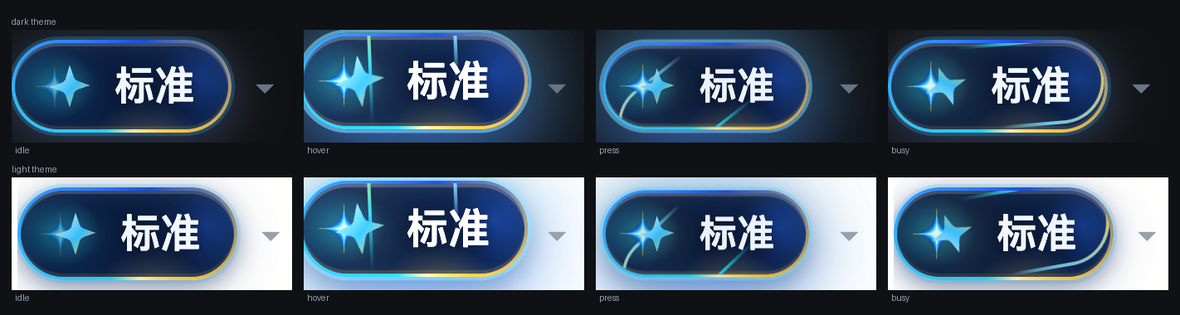
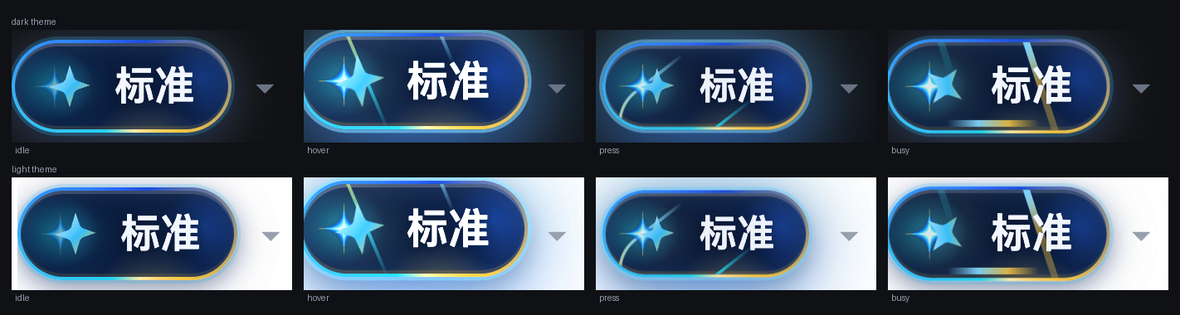
feat(ui): 执行中动效与悬停明显区分（0.5.0）
用户反馈：强化执行中的动效与鼠标悬停看不出大区别。此前 busy 相对 hover 只有描边

diff --git a/lib/client.js b/lib/client.js
@@ -326,6 +326,9 @@ window.__ModuleLoader__.load({
 				className: "dip-ring",
 				"aria-hidden": "true"
 			}), react.default.createElement("span", {
+				className: "dip-arc",
+				"aria-hidden": "true"
+			}), react.default.createElement("span", {
 				className: "dip-spark",
 				"aria-hidden": "true"
 			}), Sparkle(), react.default.createElement("span", { className: "dip-label" }, modeLabel))), react.default.createElement("button", {
@@ -523,6 +526,11 @@ window.__ModuleLoader__.load({
 				"radial-gradient(34% 70% at 62% 116%,rgba(245,197,66,.26),transparent 74%)",
 				"radial-gradient(130% 160% at 50% 50%,rgba(6,20,48,.66),transparent 80%)"
 			].join(",") + "}",
+			".dip-arc{position:absolute;left:0;right:0;bottom:1px;height:2px;border-radius:2px;opacity:0;",
+			"pointer-events:none;z-index:1;background-repeat:no-repeat;background-size:42% 100%;background-position:-60% 0;",
+			"background-image:linear-gradient(90deg,transparent,rgba(125,211,252,.95),rgba(245,197,66,.9),transparent);",
+			"transition:opacity .25s ease}",
+			".dip-btn[data-busy=\"true\"] .dip-arc{opacity:1;animation:dip-sweep 1.5s cubic-bezier(.55,.05,.35,.95) infinite}",
 			".dip-ring{position:absolute;inset:0;border-radius:999px;padding:1px;opacity:0;pointer-events:none;z-index:1;",
 			"background:conic-gradient(from 0deg,transparent 0 38%,rgba(34,211,238,.95) 56%,rgba(245,197,66,1) 72%,rgba(125,211,252,.95) 86%,transparent 100%);",
 			"-webkit-mask:linear-gradient(#000 0 0) content-box,linear-gradient(#000 0 0);",
@@ -534,17 +542,20 @@ window.__ModuleLoader__.load({
 			"box-shadow:0 0 0 1px rgba(125,211,252,.55),0 6px 26px rgba(43,108,255,.6),0 0 24px rgba(56,189,248,.45),",
 			"0 0 28px rgba(245,197,66,.26),inset 0 1px 0 rgba(255,255,255,.34),inset 0 2px 6px rgba(226,244,255,.14),",
 			"inset 0 -1px 0 rgba(245,197,66,.26),inset 0 0 18px rgba(43,108,255,.4),0 3px 8px rgba(0,0,0,.38)}",
-			".dip-btn:hover:not(:disabled) .dip-ring{opacity:1;animation:dip-rim 2.6s linear infinite}",
+			".dip-btn:hover:not(:disabled) .dip-ring{opacity:.85;animation:dip-rim 3.4s linear infinite}",
 			".dip-seat:hover .dip-aurora{opacity:1}",
 			".dip-seat:hover .dip-spark{opacity:.9;transform:translateY(-50%) scale(1.12) rotate(90deg)}",
 			".dip-seat:hover .dip-icon{transform:scale(1.18) rotate(-6deg)}",
 			".dip-btn:active:not(:disabled){transform:translateY(0) scale(.94);transition-duration:.06s;filter:brightness(.98)}",
 			".dip-seat:active .dip-icon{transform:scale(.9)}",
 			".dip-btn:active:not(:disabled) .dip-ring{opacity:1;animation-duration:1.1s}",
-			".dip-btn[data-busy=\"true\"] .dip-ring{opacity:1;animation:dip-rim 1.2s linear infinite}",
-			".dip-btn[data-busy=\"true\"] .dip-icon{animation:dip-icon-spin 1.1s linear infinite}",
-			".dip-seat[data-busy=\"true\"] .dip-aurora{opacity:1;animation:dip-aurora 2s ease-in-out infinite}",
-			".dip-seat[data-busy=\"true\"] .dip-spark{opacity:.95;animation:dip-spark-pulse 1.6s ease-in-out infinite}",
+			".dip-btn[data-busy=\"true\"]{animation:dip-charge 2.1s ease-in-out infinite}",
+			".dip-btn[data-busy=\"true\"] .dip-ring{opacity:1;padding:2px;animation:dip-rim 1s linear infinite;",
+			"background:conic-gradient(from 0deg,transparent 0 8%,rgba(34,211,238,.45) 22%,rgba(125,211,252,1) 40%,",
+			"rgba(245,197,66,1) 54%,transparent 70%)}",
+			".dip-btn[data-busy=\"true\"] .dip-icon{animation:dip-icon-spin .8s linear infinite}",
+			".dip-seat[data-busy=\"true\"] .dip-aurora{opacity:1;animation:dip-aurora 1.1s ease-in-out infinite}",
+			".dip-seat[data-busy=\"true\"] .dip-spark{opacity:1;animation:dip-spark-pulse 1.1s ease-in-out infinite}",
 			".dip-btn:focus-visible{outline:2px solid rgba(125,211,252,.85);outline-offset:2px}",
 			".dip-btn:disabled{cursor:default;color:rgba(243,247,255,.62);filter:saturate(.35) brightness(.85)}",
 			".dip-btn:disabled .dip-ring{opacity:0}",
@@ -576,6 +587,8 @@ window.__ModuleLoader__.load({
 			".dip-undo:hover{background:var(--dsw-alias-interactive-bg-hover);color:var(--dsw-alias-label-primary)}",
 			".dip-undo:active{transform:scale(.95)}",
 			"@keyframes dip-rim{to{transform:rotate(360deg)}}",
+			"@keyframes dip-sweep{from{background-position:-60% 0}to{background-position:160% 0}}",
+			"@keyframes dip-charge{0%,100%{transform:scale(1)}50%{transform:scale(1.028)}}",
 			"@keyframes dip-icon-spin{to{transform:rotate(360deg)}}",
 			"@keyframes dip-aurora{0%,100%{opacity:.7}50%{opacity:1}}",
 			"@keyframes dip-spark-pulse{0%,100%{opacity:.5;transform:translateY(-50%) scale(.95)}50%{opacity:1;transform:translateY(-50%) scale(1.15)}}",
@@ -583,6 +596,7 @@ window.__ModuleLoader__.load({
 			".dip-btn,.dip-ring,.dip-aurora,.dip-spark,.dip-icon,.dip-chevron,.dip-undo{animation:none!important;",
 			"transition-duration:.01ms!important}",
 			".dip-btn:hover:not(:disabled) .dip-ring,.dip-btn[data-busy=\"true\"] .dip-ring{opacity:1}",
+			".dip-btn[data-busy=\"true\"] .dip-arc{opacity:1;background-size:100% 100%;background-position:0 0}",
 			".dip-seat[data-busy=\"true\"] .dip-aurora{opacity:1}",
 			"}"
 		].join("\n");

diff --git a/src/client/styles.ts b/src/client/styles.ts
@@ -80,6 +80,15 @@ export const css = [
   '.dip-aurora{position:absolute;inset:0;border-radius:999px;pointer-events:none;z-index:0;',
   'opacity:.85;transition:opacity .3s;background:' + AURORA + '}',
 
+  /* indeterminate progress: an energy bar sweeping the bottom inner edge, busy only.
+     It occupies y25..27 of a 28px pill while the label box is y8..20, so it can never
+     pass under a glyph — a geometric guarantee the harness asserts. */
+  '.dip-arc{position:absolute;left:0;right:0;bottom:1px;height:2px;border-radius:2px;opacity:0;',
+  'pointer-events:none;z-index:1;background-repeat:no-repeat;background-size:42% 100%;background-position:-60% 0;',
+  'background-image:linear-gradient(90deg,transparent,rgba(125,211,252,.95),rgba(245,197,66,.9),transparent);',
+  'transition:opacity .25s ease}',
+  '.dip-btn[data-busy="true"] .dip-arc{opacity:1;animation:dip-sweep 1.5s cubic-bezier(.55,.05,.35,.95) infinite}',
+
   /* travelling rim light, masked to the 1px band */
   '.dip-ring{position:absolute;inset:0;border-radius:999px;padding:1px;opacity:0;pointer-events:none;z-index:1;',
   'background:conic-gradient(from 0deg,transparent 0 38%,rgba(34,211,238,.95) 56%,rgba(245,197,66,1) 72%,rgba(125,211,252,.95) 86%,transparent 100%);',
@@ -97,7 +106,7 @@ export const css = [
   'box-shadow:0 0 0 1px rgba(125,211,252,.55),0 6px 26px rgba(43,108,255,.6),0 0 24px rgba(56,189,248,.45),',
   '0 0 28px rgba(245,197,66,.26),inset 0 1px 0 rgba(255,255,255,.34),inset 0 2px 6px rgba(226,244,255,.14),',
   'inset 0 -1px 0 rgba(245,197,66,.26),inset 0 0 18px rgba(43,108,255,.4),0 3px 8px rgba(0,0,0,.38)}',
-  '.dip-btn:hover:not(:disabled) .dip-ring{opacity:1;animation:dip-rim 2.6s linear infinite}',
+  '.dip-btn:hover:not(:disabled) .dip-ring{opacity:.85;animation:dip-rim 3.4s linear infinite}',
   '.dip-seat:hover .dip-aurora{opacity:1}',
   '.dip-seat:hover .dip-spark{opacity:.9;transform:translateY(-50%) scale(1.12) rotate(90deg)}',
   '.dip-seat:hover .dip-icon{transform:scale(1.18) rotate(-6deg)}',
@@ -108,10 +117,16 @@ export const css = [
   '.dip-btn:active:not(:disabled) .dip-ring{opacity:1;animation-duration:1.1s}',
 
   /* ---------- busy: the rim runs continuously ---------- */
-  '.dip-btn[data-busy="true"] .dip-ring{opacity:1;animation:dip-rim 1.2s linear infinite}',
-  '.dip-btn[data-busy="true"] .dip-icon{animation:dip-icon-spin 1.1s linear infinite}',
-  '.dip-seat[data-busy="true"] .dip-aurora{opacity:1;animation:dip-aurora 2s ease-in-out infinite}',
-  '.dip-seat[data-busy="true"] .dip-spark{opacity:.95;animation:dip-spark-pulse 1.6s ease-in-out infinite}',
+  // Busy is a different animal from hover, not a faster hover: the chip charges (a slow
+  // breath), the rim becomes a thick comet with a long tail, and the bottom edge carries
+  // a moving energy bar. Hover keeps only the lift, the brightening and a slow rim.
+  '.dip-btn[data-busy="true"]{animation:dip-charge 2.1s ease-in-out infinite}',
+  '.dip-btn[data-busy="true"] .dip-ring{opacity:1;padding:2px;animation:dip-rim 1s linear infinite;',
+  'background:conic-gradient(from 0deg,transparent 0 8%,rgba(34,211,238,.45) 22%,rgba(125,211,252,1) 40%,',
+  'rgba(245,197,66,1) 54%,transparent 70%)}',
+  '.dip-btn[data-busy="true"] .dip-icon{animation:dip-icon-spin .8s linear infinite}',
+  '.dip-seat[data-busy="true"] .dip-aurora{opacity:1;animation:dip-aurora 1.1s ease-in-out infinite}',
+  '.dip-seat[data-busy="true"] .dip-spark{opacity:1;animation:dip-spark-pulse 1.1s ease-in-out infinite}',
 
   /* ---------- quiet states ---------- */
   '.dip-btn:focus-visible{outline:2px solid rgba(125,211,252,.85);outline-offset:2px}',
@@ -155,6 +170,8 @@ export const css = [
 
   /* ---------- keyframes ---------- */
   '@keyframes dip-rim{to{transform:rotate(360deg)}}',
+  '@keyframes dip-sweep{from{background-position:-60% 0}to{background-position:160% 0}}',
+  '@keyframes dip-charge{0%,100%{transform:scale(1)}50%{transform:scale(1.028)}}',
   '@keyframes dip-icon-spin{to{transform:rotate(360deg)}}',
   '@keyframes dip-aurora{0%,100%{opacity:.7}50%{opacity:1}}',
   '@keyframes dip-spark-pulse{0%,100%{opacity:.5;transform:translateY(-50%) scale(.95)}50%{opacity:1;transform:translateY(-50%) scale(1.15)}}',
@@ -164,6 +181,8 @@ export const css = [
   '.dip-btn,.dip-ring,.dip-aurora,.dip-spark,.dip-icon,.dip-chevron,.dip-undo{animation:none!important;',
   'transition-duration:.01ms!important}',
   '.dip-btn:hover:not(:disabled) .dip-ring,.dip-btn[data-busy="true"] .dip-ring{opacity:1}',
+  // busy must still read as busy with motion off: a full-width static bar instead
+  '.dip-btn[data-busy="true"] .dip-arc{opacity:1;background-size:100% 100%;background-position:0 0}',
   '.dip-seat[data-busy="true"] .dip-aurora{opacity:1}',
   '}',
 ].join('\n')

diff --git a/src/client/components.ts b/src/client/components.ts
@@ -185,6 +185,7 @@ export function ImproveButton(props: SeatProps): React.ReactElement | null {
     },
     React.createElement('span', { className: 'dip-aurora', 'aria-hidden': 'true' }),
     React.createElement('span', { className: 'dip-ring', 'aria-hidden': 'true' }),
+    React.createElement('span', { className: 'dip-arc', 'aria-hidden': 'true' }),
     React.createElement('span', { className: 'dip-spark', 'aria-hidden': 'true' }),
     Sparkle(),
     React.createElement('span', { className: 'dip-label' }, modeLabel),

diff --git a/README.en.md b/README.en.md
@@ -87,9 +87,9 @@ Three material details make the glass read as glass: a **specular band along the
 | State | Treatment |
 |---|---|
 | **Idle** | Dark glass chip, full gradient rim, one cyan pool at the icon |
-| **Hover** | Lifts 1.5px, scales 1.04, the rim brightens, the pools brighten, the narrow outer halo strengthens |
+| **Hover** | Lifts 1.5px, scales 1.04, the rim brightens and turns slowly (3.4s per lap), the pools brighten, the narrow halo strengthens; no bar, no breath, no comet tail |
 | **Press** | Settles to `scale(.94)`, brightness pulls back, the rim speeds up |
-| **Busy** | The rim becomes a running ring, the icon spins, the pools breathe |
+| **Busy** | **Deliberately unlike hover**: the rim becomes a long-tailed **comet**, a **sweeping energy bar** runs along the bottom edge (indeterminate progress), the whole chip **charges** (scale 1 -> 1.028), the icon spins and the pools breathe |
 | **Disabled / focus** | Desaturated and dimmed, rim extinguished; `focus-visible` keeps a keyboard ring |
 | **Reduced motion** | Every animation stops under `prefers-reduced-motion` — motion only, never legibility |
 
@@ -102,11 +102,11 @@ Three material details make the glass read as glass: a **specular band along the
 | State | Dark theme | Light theme |
 |---|---|---|
 | Idle | 11.07:1 | 11.07:1 |
-| Hover | 9.89:1 | 15.28:1 |
+| Hover | 9.83:1 | 15.36:1 |
 | Press | 8.77:1 | 14.53:1 |
-| Busy | 9.13:1 | 15.43:1 |
+| Busy | 10.99:1 | 11.00:1 |
 
-Worst case **8.77:1** (WCAG AA wants >= 4.5:1 for body text). Disabled is measured too: WCAG exempts inactive controls, this plugin's requirement does not.
+Worst case **9.83:1** (WCAG AA wants >= 4.5:1 for body text). Disabled is measured too: WCAG exempts inactive controls, this plugin's requirement does not.
 
 ### How the art was reviewed (reproducible)
 

diff --git a/README.md b/README.md
@@ -87,9 +87,9 @@ dsh plugin --profile web remove dsh-improve-prompt   # 卸载
 | 状态 | 表现 |
 |---|---|
 | **闲置** | 深色玻璃芯片 + 完整渐变描边 + 图标处一枚青色光池 |
-| **悬停** | 上浮 1.5px、放大 1.04、描边提亮、光池增亮、外沿窄光晕变强 |
+| **悬停** | 上浮 1.5px、放大 1.04、描边提亮（慢速 3.4s 一圈）、光池增亮、外沿窄光晕变强；**无**扫动条、**无**呼吸、**无**彗星尾 |
 | **点按** | 回落到 `scale(.94)`、亮度回收、描边光加速 |
-| **进行中** | 描边光成跑环 + 图标自转 + 光池呼吸 |
+| **进行中** | **与悬停明显不同**：描边变成带长尾的**彗星**绕行、底边有**扫动的能量条**（不确定进度）、整块芯片**呼吸充能**（scale 1→1.028）、图标自转、光池呼吸 |
 | **禁用 / 焦点** | 去饱和 + 压暗、描边熄灭；`focus-visible` 保留键盘焦点环 |
 | **降低动效** | `prefers-reduced-motion` 下所有动画停止，**只停动效、不动清晰度** |
 
@@ -102,11 +102,11 @@ dsh plugin --profile web remove dsh-improve-prompt   # 卸载
 | 状态 | 暗色主题 | 浅色主题 |
 |---|---|---|
 | 闲置 | 11.07:1 | 11.07:1 |
-| 悬停 | 9.89:1 | 15.28:1 |
+| 悬停 | 9.83:1 | 15.36:1 |
 | 点按 | 8.77:1 | 14.53:1 |
-| 进行中 | 9.13:1 | 15.43:1 |
+| 进行中 | 10.99:1 | 11.00:1 |
 
-最差 **8.77:1**（WCAG AA 正文要求 ≥4.5:1）。禁用态同样受测：WCAG 豁免非活性控件，本插件的约束不豁免。
+最差 **9.83:1**（WCAG AA 正文要求 ≥4.5:1）。禁用态同样受测：WCAG 豁免非活性控件，本插件的约束不豁免。
 
 ### 美术自检方法（可复现）
 

diff --git a/CHANGELOG.md b/CHANGELOG.md
@@ -1,5 +1,19 @@
 # Changelog
 
+## 0.5.0
+
+执行中的动效与悬停拉开明显差距（用户反馈：两者看不出大区别）。
+
+- **问题**：此前 busy 与 hover 的区别只有"描边转快一点 + 图标自转"，静态一看几乎一样，也不够酷。
+- **现在 busy 有三样 hover 完全没有的东西**：
+  1. **彗星描边**：1px 匀速环 → 2px 带长尾的渐变彗星（尾长从 8% 拖到 70%），1s 一圈；
+  2. **底边能量条**：药丸底部内沿一条 2px 不确定进度条来回扫动（1.5s），——**结构上不可能压到文字**：它只占 28px 高药丸的 y25..27，而文字盒是 y8..20，已加断言；
+  3. **整块芯片呼吸充能**：scale 1→1.028 的 2.1s 呼吸，配合光池与火花 1.1s 脉动。
+- **hover 同时收敛**（把差距拉开）：描边由 2.6s 放慢到 3.4s、不透明度降到 .85，不再有扫动条/呼吸/彗星尾。
+- **无动效环境**：`prefers-reduced-motion` 下 busy 用一条**静止的全宽能量条**表达"进行中"，不靠动效也能区别于 hover。
+- 新增 3 条断言：能量条只占底部 2px、busy 有独立的 dip-sweep / dip-charge 关键帧、芯片自身带充能动画。
+- 复测（动画冻结、3x 截图像素）：八组状态×主题最差 **9.83:1**（AA 正文 ≥4.5:1）。
+
 ## 0.4.0
 
 按钮第五版：**对齐参照的工艺水准，而不是照搬它的配色。**
